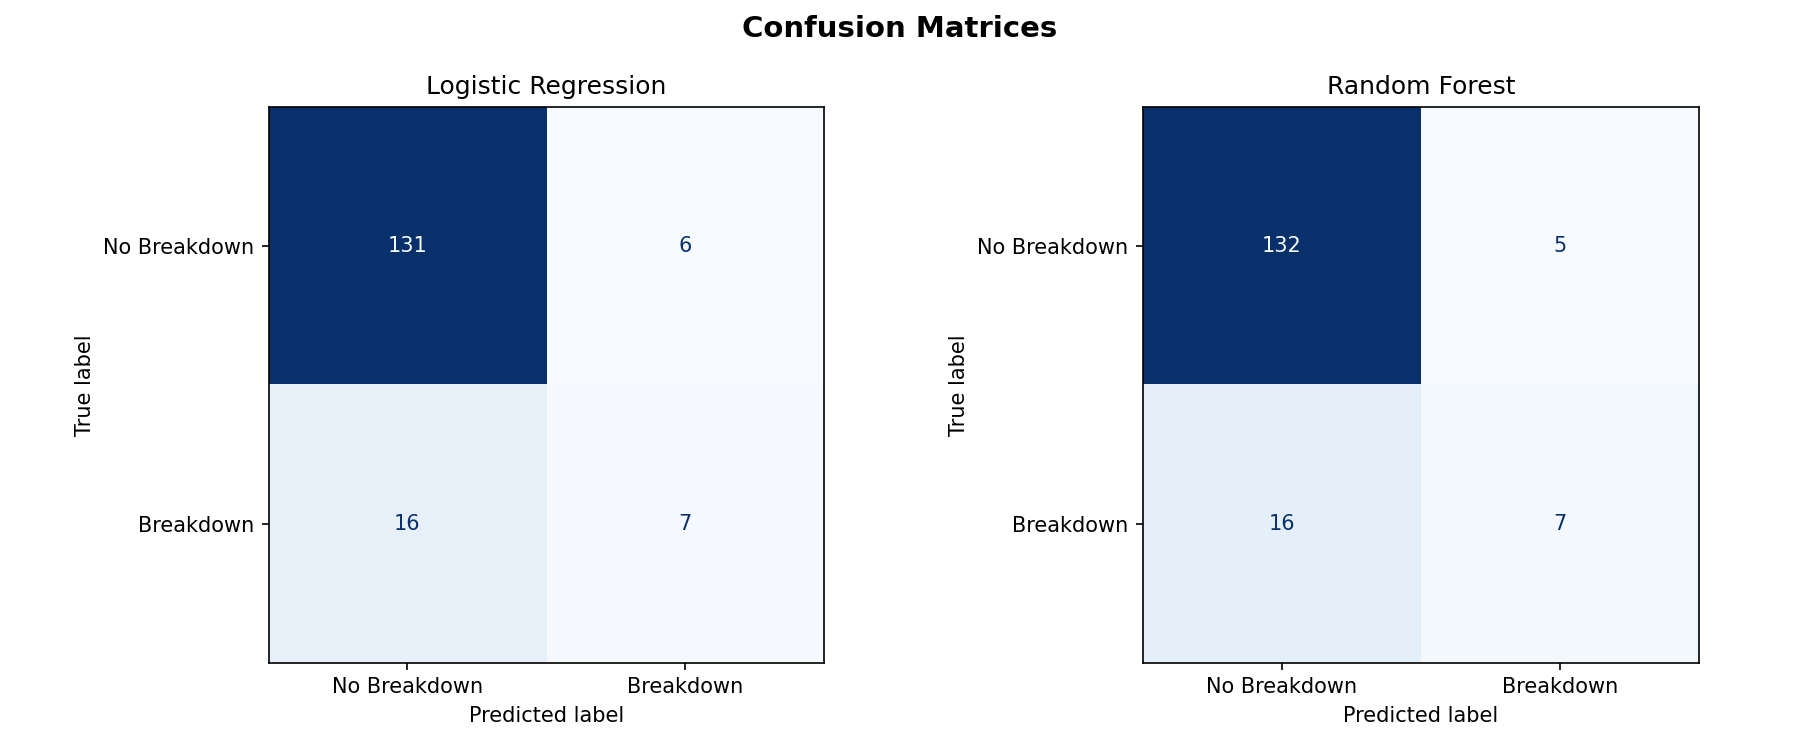
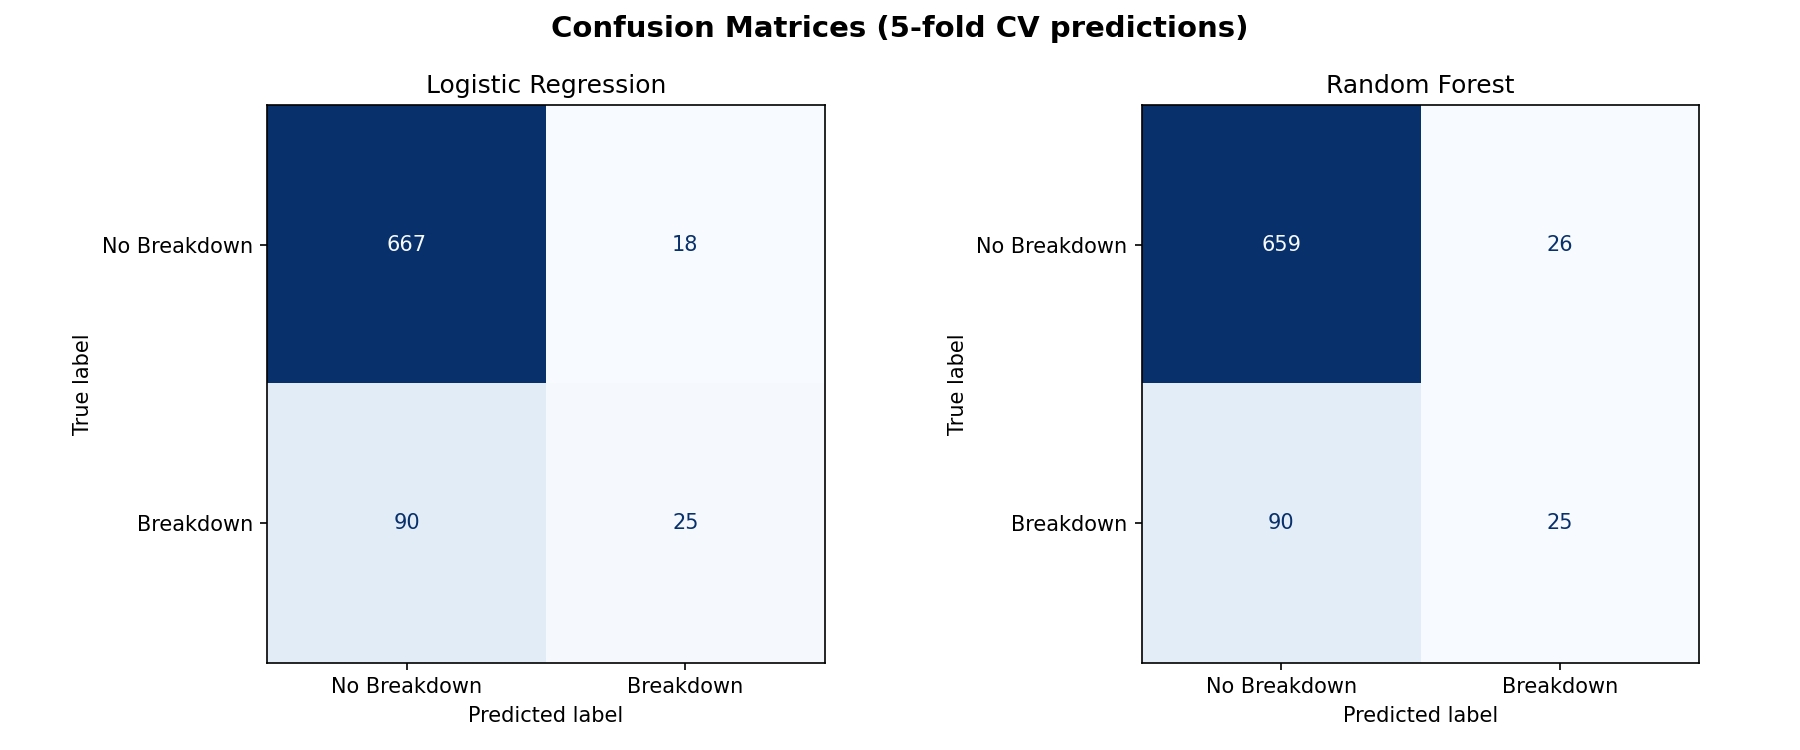
Replace single train/test split with 5-fold cross-validation
Metrics now report mean ± std across folds, giving a more honest
estimate of model performance. Pipeline wraps scaler + LogReg to
prevent data leakage during CV. Plots use cross_val_predict.

diff --git a/scripts/model_comparison.py b/scripts/model_comparison.py
@@ -1,7 +1,7 @@
 """
 Model comparison: Logistic Regression vs Random Forest.
-Trains both models, prints a metric table, and saves confusion matrices
-and ROC curves to the figures/ directory.
+Evaluates both models via 5-fold cross-validation (mean ± std),
+and saves confusion matrices and ROC curves to the figures/ directory.
 """
 
 import os
@@ -13,15 +13,16 @@ import joblib
 from sklearn.linear_model import LogisticRegression
 from sklearn.ensemble import RandomForestClassifier
 from sklearn.preprocessing import MinMaxScaler
-from sklearn.model_selection import train_test_split
-from sklearn.metrics import (
-    accuracy_score, precision_score, recall_score, f1_score,
-    confusion_matrix, roc_curve, auc, ConfusionMatrixDisplay
-)
+from sklearn.pipeline import Pipeline
+from sklearn.model_selection import cross_validate, cross_val_predict
+from sklearn.metrics import confusion_matrix, roc_curve, auc, ConfusionMatrixDisplay
 
 FEATURES = ['km', 'etat', 'age_vehicule', 'nb_revisions', 'temperature_moteur']
 TARGET = 'panne'
 FIGURES_DIR = 'figures'
+N_FOLDS = 5
+SCORING = ['accuracy', 'precision', 'recall', 'f1']
+
 os.makedirs(FIGURES_DIR, exist_ok=True)
 
 
@@ -36,12 +37,12 @@ def load_data():
         print("CSV not found. Generating fallback dataset...")
         data_fallback = {
             'id': range(101, 111),
-            'km':               [15000, 45000, 12000, 80000, 32000, 65000, 22000, 95000, 40000, 28000],
-            'etat':             [2,     1,     2,     0,     1,     0,     2,     0,     1,     2],
-            'age_vehicule':     [2,     8,     3,     15,    6,     18,    4,     22,    7,     5],
-            'nb_revisions':     [2,     7,     3,     12,    5,     14,    4,     18,    6,     4],
-            'temperature_moteur':[75,   88,    72,   108,   85,   112,   73,   115,   90,    76],
-            'panne':            [0,     0,     0,     1,     0,     1,     0,     1,     0,     0],
+            'km':                [15000, 45000, 12000, 80000, 32000, 65000, 22000, 95000, 40000, 28000],
+            'etat':              [2,     1,     2,     0,     1,     0,     2,     0,     1,     2],
+            'age_vehicule':      [2,     8,     3,     15,    6,     18,    4,     22,    7,     5],
+            'nb_revisions':      [2,     7,     3,     12,    5,     14,    4,     18,    6,     4],
+            'temperature_moteur':[75,    88,    72,    108,   85,    112,   73,    115,   90,    76],
+            'panne':             [0,     0,     0,     1,     0,     1,     0,     1,     0,     0],
         }
         return pd.DataFrame(data_fallback)
 
@@ -60,48 +61,45 @@ def clean_data(df):
     return df
 
 
-# --- Training ---
+# --- Models ---
 
-def train_models(X_train, y_train):
-    scaler = MinMaxScaler()
-    X_train_scaled = scaler.fit_transform(X_train)
-
-    log_reg = LogisticRegression(max_iter=1000)
-    log_reg.fit(X_train_scaled, y_train)
-
+def build_models():
+    lr = Pipeline([
+        ('scaler', MinMaxScaler()),
+        ('clf', LogisticRegression(max_iter=1000))
+    ])
     rf = RandomForestClassifier(n_estimators=100, max_depth=5, random_state=42)
-    rf.fit(X_train, y_train)
-
-    return log_reg, rf, scaler
+    return [('Logistic Regression', lr), ('Random Forest', rf)]
 
 
-# --- Evaluation ---
+# --- Cross-validation ---
 
-def compute_metrics(name, y_true, y_pred):
-    return {
-        'Model': name,
-        'Accuracy':  round(accuracy_score(y_true, y_pred), 4),
-        'Precision': round(precision_score(y_true, y_pred, zero_division=0), 4),
-        'Recall':    round(recall_score(y_true, y_pred, zero_division=0), 4),
-        'F1-Score':  round(f1_score(y_true, y_pred, zero_division=0), 4),
-    }
+def run_cross_validation(models, X, y):
+    results = []
+    for name, model in models:
+        cv = cross_validate(model, X, y, cv=N_FOLDS, scoring=SCORING)
+        results.append({
+            'Model':     name,
+            'Accuracy':  f"{cv['test_accuracy'].mean():.3f} ± {cv['test_accuracy'].std():.3f}",
+            'Precision': f"{cv['test_precision'].mean():.3f} ± {cv['test_precision'].std():.3f}",
+            'Recall':    f"{cv['test_recall'].mean():.3f} ± {cv['test_recall'].std():.3f}",
+            'F1-Score':  f"{cv['test_f1'].mean():.3f} ± {cv['test_f1'].std():.3f}",
+        })
+    return pd.DataFrame(results).set_index('Model')
 
 
 # --- Plots ---
 
-def plot_confusion_matrices(y_test, y_pred_lr, y_pred_rf):
+def plot_confusion_matrices(models, X, y):
     fig, axes = plt.subplots(1, 2, figsize=(12, 5))
-    fig.suptitle('Confusion Matrices', fontsize=14, fontweight='bold')
+    fig.suptitle(f'Confusion Matrices ({N_FOLDS}-fold CV predictions)', fontsize=14, fontweight='bold')
 
-    for ax, y_pred, title in zip(
-        axes,
-        [y_pred_lr, y_pred_rf],
-        ['Logistic Regression', 'Random Forest']
-    ):
-        cm = confusion_matrix(y_test, y_pred)
+    for ax, (name, model) in zip(axes, models):
+        y_pred = cross_val_predict(model, X, y, cv=N_FOLDS)
+        cm = confusion_matrix(y, y_pred)
         disp = ConfusionMatrixDisplay(confusion_matrix=cm, display_labels=['No Breakdown', 'Breakdown'])
         disp.plot(ax=ax, colorbar=False, cmap='Blues')
-        ax.set_title(title, fontsize=12)
+        ax.set_title(name, fontsize=12)
 
     plt.tight_layout()
     path = os.path.join(FIGURES_DIR, 'confusion_matrices.png')
@@ -110,16 +108,13 @@ def plot_confusion_matrices(y_test, y_pred_lr, y_pred_rf):
     plt.close()
 
 
-def plot_roc_curves(y_test, proba_lr, proba_rf):
+def plot_roc_curves(models, X, y):
     fig, axes = plt.subplots(1, 2, figsize=(12, 5))
-    fig.suptitle('ROC Curves', fontsize=14, fontweight='bold')
+    fig.suptitle(f'ROC Curves ({N_FOLDS}-fold CV predictions)', fontsize=14, fontweight='bold')
 
-    for ax, proba, title in zip(
-        axes,
-        [proba_lr, proba_rf],
-        ['Logistic Regression', 'Random Forest']
-    ):
-        fpr, tpr, _ = roc_curve(y_test, proba)
+    for ax, (name, model) in zip(axes, models):
+        proba = cross_val_predict(model, X, y, cv=N_FOLDS, method='predict_proba')[:, 1]
+        fpr, tpr, _ = roc_curve(y, proba)
         roc_auc = auc(fpr, tpr)
         ax.plot(fpr, tpr, color='steelblue', lw=2, label=f'AUC = {roc_auc:.3f}')
         ax.plot([0, 1], [0, 1], color='grey', linestyle='--', lw=1)
@@ -127,7 +122,7 @@ def plot_roc_curves(y_test, proba_lr, proba_rf):
         ax.set_ylim([0, 1.02])
         ax.set_xlabel('False Positive Rate')
         ax.set_ylabel('True Positive Rate')
-        ax.set_title(title, fontsize=12)
+        ax.set_title(name, fontsize=12)
         ax.legend(loc='lower right')
         ax.grid(True, linestyle=':', alpha=0.5)
 
@@ -138,12 +133,28 @@ def plot_roc_curves(y_test, proba_lr, proba_rf):
     plt.close()
 
 
+# --- Save final models (trained on full dataset) ---
+
+def save_models(models, X, y):
+    for name, model in models:
+        model.fit(X, y)
+
+    lr_pipeline = dict(models)['Logistic Regression']
+    rf = dict(models)['Random Forest']
+
+    joblib.dump(lr_pipeline.named_steps['clf'], 'models/modele_final.pkl')
+    joblib.dump(lr_pipeline.named_steps['scaler'], 'models/scaler_final.pkl')
+    joblib.dump(rf, 'models/modele_forest.pkl')
+    print("Models saved to models/")
+
+
 # --- Main ---
 
 if __name__ == "__main__":
-    print("=" * 55)
+    print("=" * 60)
     print("  MODEL COMPARISON — Logistic Regression vs Random Forest")
-    print("=" * 55)
+    print(f"  Evaluation: {N_FOLDS}-fold cross-validation")
+    print("=" * 60)
 
     df = load_data()
     df_clean = clean_data(df)
@@ -151,33 +162,14 @@ if __name__ == "__main__":
     X = df_clean[FEATURES]
     y = df_clean[TARGET]
 
-    X_train, X_test, y_train, y_test = train_test_split(
-        X, y, test_size=0.2, random_state=42, stratify=y
-    )
-    print(f"Train: {len(X_train)} | Test: {len(X_test)}")
+    models = build_models()
 
-    log_reg, rf, scaler = train_models(X_train, y_train)
-
-    X_test_scaled = scaler.transform(X_test)
-    y_pred_lr = log_reg.predict(X_test_scaled)
-    y_pred_rf = rf.predict(X_test)
-    proba_lr = log_reg.predict_proba(X_test_scaled)[:, 1]
-    proba_rf = rf.predict_proba(X_test)[:, 1]
-
-    results = [
-        compute_metrics('Logistic Regression', y_test, y_pred_lr),
-        compute_metrics('Random Forest',       y_test, y_pred_rf),
-    ]
-    results_df = pd.DataFrame(results).set_index('Model')
-
-    print("\n--- METRIC COMPARISON ---")
+    results_df = run_cross_validation(models, X, y)
+    print("\n--- METRIC COMPARISON (mean ± std) ---")
     print(results_df.to_string())
 
-    plot_confusion_matrices(y_test, y_pred_lr, y_pred_rf)
-    plot_roc_curves(y_test, proba_lr, proba_rf)
+    plot_confusion_matrices(models, X, y)
+    plot_roc_curves(models, X, y)
 
-    joblib.dump(log_reg, 'models/modele_final.pkl')
-    joblib.dump(scaler,  'models/scaler_final.pkl')
-    joblib.dump(rf,      'models/modele_forest.pkl')
-    print("\nModels saved to models/")
-    print("=" * 55)
+    save_models(models, X, y)
+    print("=" * 60)